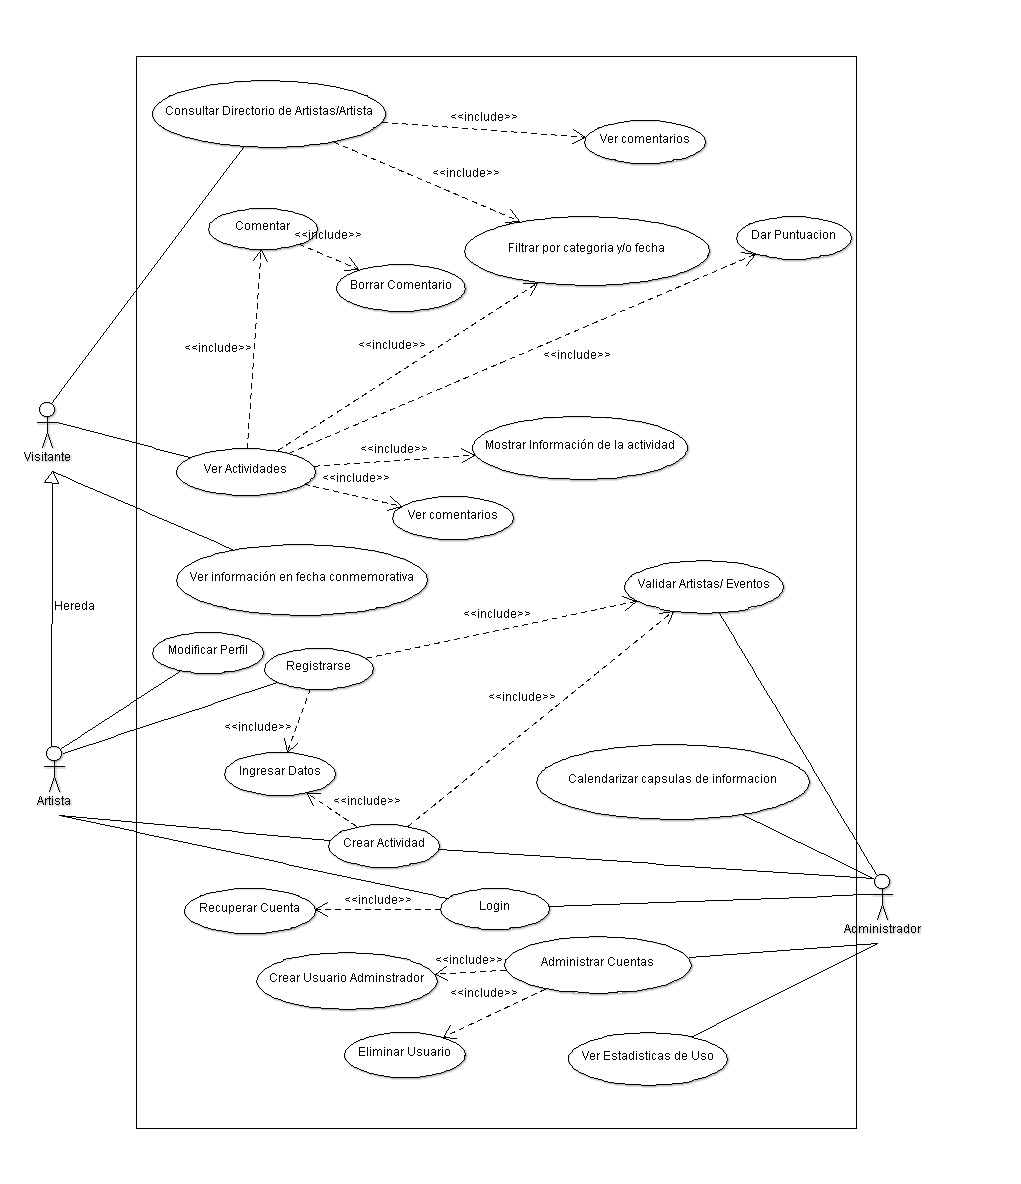
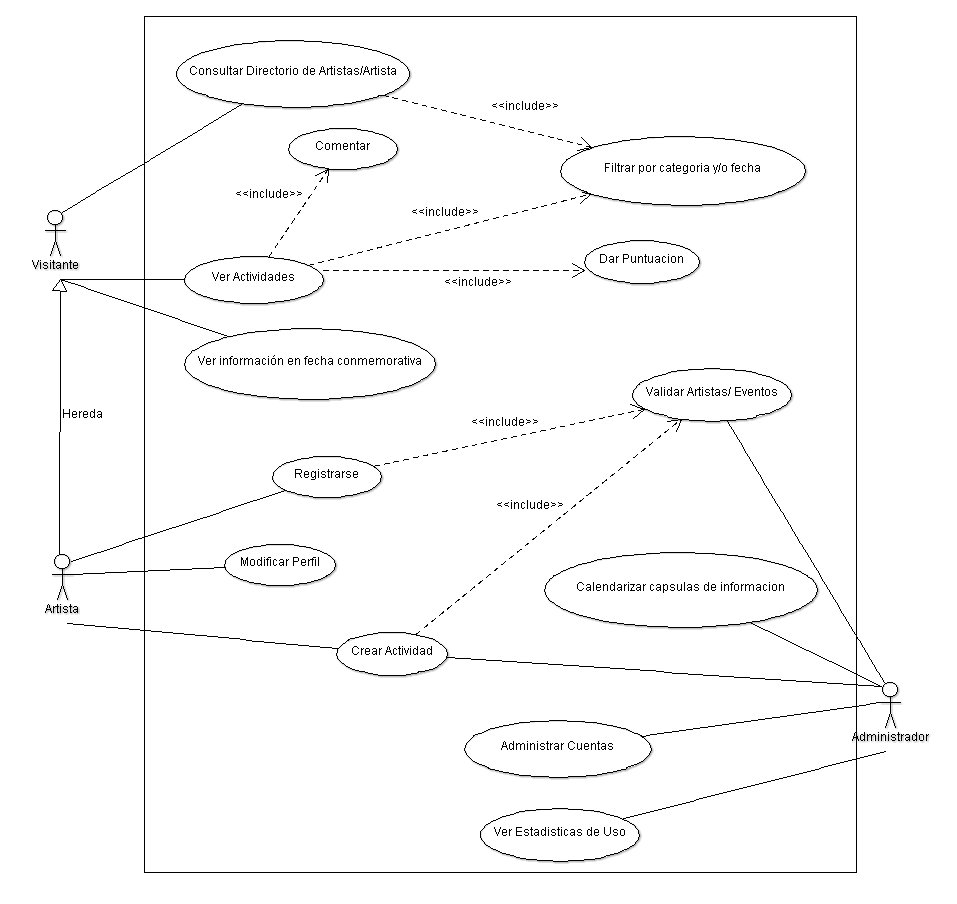
Cambios de idioma en la configuracion de sphinx
* Mejoras en el caso de uso de la vista general
* Correcion en la mision del proyecto
* Agregado diagrma de clases

diff --git a/source/conf.py b/source/conf.py
@@ -60,7 +60,7 @@ release = '0.5'
 
 # The language for content autogenerated by Sphinx. Refer to documentation
 # for a list of supported languages.
-#language = None
+language = 'es'
 
 # There are two options for replacing |today|: either, you set today to some
 # non-false value, then it is used:

diff --git a/source/proyecto.rst b/source/proyecto.rst
@@ -9,9 +9,9 @@ usuarios artistas y usuarios administradores
 De cara a los usuarios comunes su función es la de ser una agenda de actividades
 culturales que ocurran en la ciudad de Quetzaltenango y de los artistas que participen,
 mostrando una cronología de fechas, permitiendo filtrarlas por temática, con opción
-a dejar reseñas en alguna actividad, puntuarlas, siendo notificados de alguna que le
-interese, también permite buscar y consultar perfiles de artistas, además de recibir
-contenido educativo en forma de capsulas informativas sobre temas de interés cultural
+a dejar reseñas en alguna actividad, puntuarlas, también permite buscar y consultar
+perfiles de artistas, además de recibir contenido educativo en forma de capsulas
+informativas sobre temas de interés cultural.
 
 Dirigido hacia los Artistas, además de las funciones que tiene el público común,
 la aplicación permite que puedan crear un perfil con sus datos, el perfil necesita

diff --git a/source/objetivos.rst b/source/objetivos.rst
@@ -25,8 +25,6 @@ un difusor de información todo artista Quezalteco (o no) puede utilizarla para 
 conocer, siendo su mayor utilidad la capacidad para recaudar datos y generar estadísticas
 sobre los intereses culturales de la ciudad, información muy útil para la casa de cultura
 
-
-
 Casa de Cultura de la Municipalidad de Quetzaltenango
 -----------------------------------------------------
 
@@ -40,9 +38,9 @@ puede actuar como asesor.
 Misión del proyecto
 -------------------
 
-Obtener información fiable y coherente de toda actividad cultural ocurrida en
-el departamento y servir como herramienta en la toma de decisiones relacionadas
-
+Servir como herramienta en la toma de desiciones que realize la casa de la cultura,
+obteniendo informacion fiable y coherente de toda actividad cultural ocurrida en el departamente
+de Quetzaltenango
 
 Objetivos del proyecto
 ----------------------
